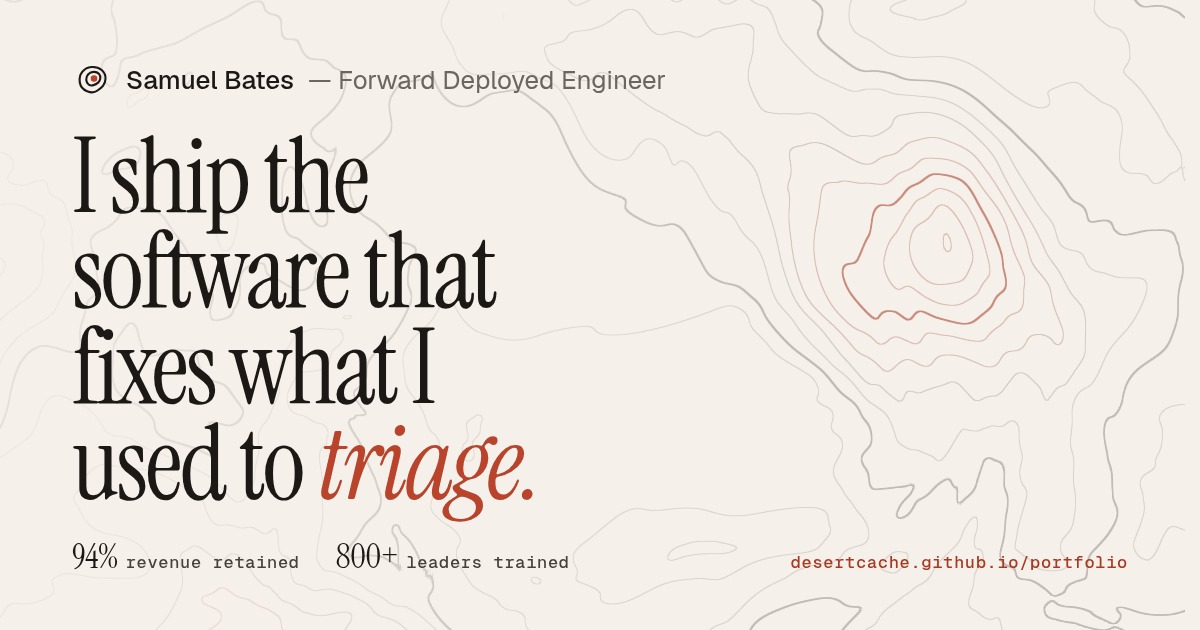
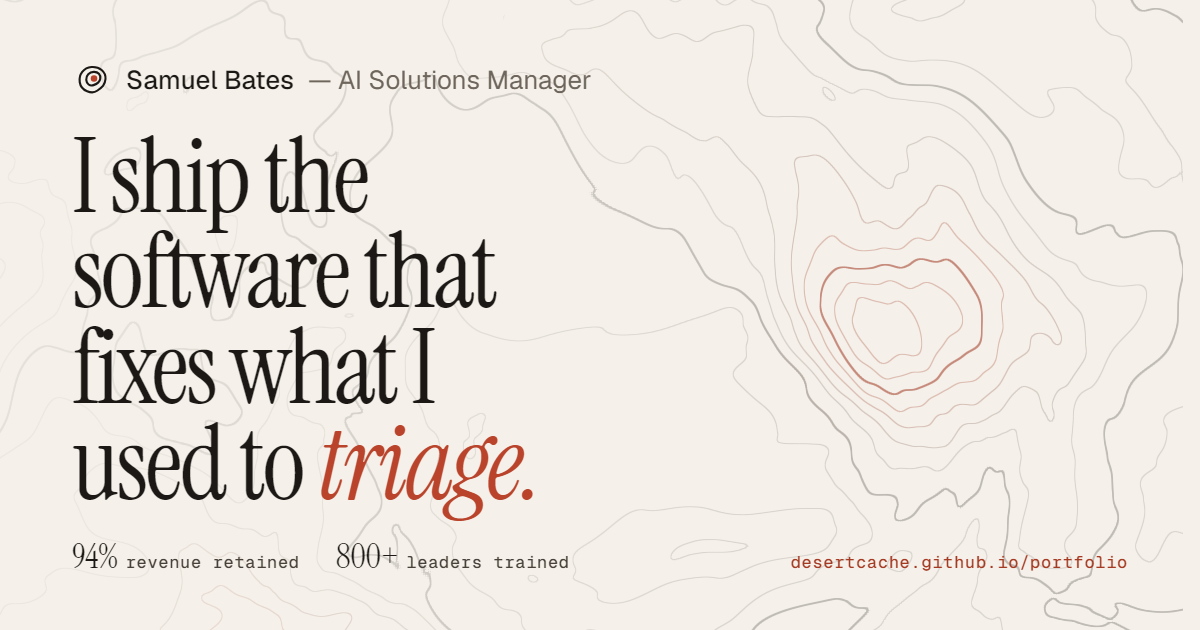
Site: AI Solutions Manager, drop public status pill, work samples (unlisted)
Title/meta/JSON-LD/hero/OG card now read AI Solutions Manager; the public
'Open to... SF Bay' pill and contact line are gone; two noindex work-sample
pages under work/ for hiring-manager emails. Local commit; not pushed.

Claude-Session: https://claude.ai/code/session_01AFSrcGpFRML4Q3CkMTJMqm

diff --git a/work/ai-copilot-rollout.html b/work/ai-copilot-rollout.html
@@ -1,0 +1,123 @@
+<!doctype html>
+<html lang="en">
+<head>
+  <meta charset="utf-8">
+  <meta name="viewport" content="width=device-width, initial-scale=1, viewport-fit=cover">
+  <title>Putting an AI copilot into a live support operation · Samuel Bates</title>
+  <meta name="description" content="How I took an AI support workspace from prototype to a multi-agent platform that an outsourced support team now works live cases in: architecture, measurement, rollout, and what I would tell the next team.">
+  <meta name="robots" content="noindex">
+  <link rel="canonical" href="https://desertcache.github.io/portfolio/work/ai-copilot-rollout.html">
+  <meta name="theme-color" content="#f5f1ea">
+
+  <script>
+    // Same as every page: pick the theme before first paint and flag that JS is on.
+    (function () {
+      var root = document.documentElement;
+      root.classList.add('js');
+      setTimeout(function () { if (!root.classList.contains('js-ready')) root.classList.remove('js'); }, 4000);
+      try {
+        var t = localStorage.getItem('sb-theme');
+        if (t !== 'dark' && t !== 'light') {
+          t = window.matchMedia('(prefers-color-scheme: dark)').matches ? 'dark' : 'light';
+        }
+        root.setAttribute('data-theme', t);
+        document.querySelector('meta[name="theme-color"]').setAttribute('content', t === 'dark' ? '#12100e' : '#f5f1ea');
+      } catch (e) { /* storage blocked: CSS falls back to the system theme */ }
+    })();
+  </script>
+
+  <link rel="preconnect" href="https://fonts.googleapis.com">
+  <link rel="preconnect" href="https://fonts.gstatic.com" crossorigin>
+  <link rel="stylesheet" href="https://fonts.googleapis.com/css2?family=Geist:wght@300..700&family=Geist+Mono:wght@400;500&family=Instrument+Serif:ital@0;1&display=swap">
+
+  <link rel="icon" type="image/svg+xml" href="../favicon.svg">
+  <link rel="apple-touch-icon" href="../assets/apple-touch-icon.png">
+  <link rel="stylesheet" href="../css/site.css">
+  <link rel="stylesheet" href="../blog/blog.css?v=2026-09-23">
+  <script type="module" src="../js/blog.js"></script>
+</head>
+<body>
+  <a class="skip" href="#main">Skip to content</a>
+
+  <header class="nav" id="nav">
+    <div class="nav-inner">
+      <a class="brand" href="../index.html" aria-label="Samuel Bates, home">
+        <svg class="brand-mark" viewBox="0 0 32 32" aria-hidden="true" focusable="false">
+          <path d="M6.2 17.8C5.2 11.6 9.4 6.1 15.6 5.6 21.9 5.1 27.2 9.2 26.8 15.2 26.4 20.4 23.6 22.1 20.1 24.6 16.2 27.4 7.3 25.1 6.2 17.8Z" fill="none" stroke="currentColor" stroke-width="1.7" stroke-linejoin="round"/>
+          <path d="M11.4 15.9C11.1 12.2 13.9 9.6 17.4 9.5 21 9.4 23.1 11.9 22.6 15 22.1 18.2 19.8 19.2 17.2 20.1 14.2 21.1 11.7 19.2 11.4 15.9Z" fill="none" stroke="currentColor" stroke-width="1.7" stroke-linejoin="round"/>
+          <circle cx="17.6" cy="14.7" r="2.6" class="brand-dot"/>
+        </svg>
+        <span class="brand-name">Samuel Bates</span>
+      </a>
+      <nav class="nav-links" aria-label="Sections">
+        <a href="../index.html#work" aria-current="true">Work</a>
+        <a href="../index.html#lab">Lab</a>
+        <a href="../index.html#about">About</a>
+        <a href="../index.html#contact">Contact</a>
+      </nav>
+      <div class="nav-actions">
+        <button class="theme-toggle" id="theme-toggle" type="button" aria-label="Switch to dark theme">
+          <svg class="icon-sun" viewBox="0 0 24 24" aria-hidden="true" focusable="false"><circle cx="12" cy="12" r="4.2"/><path d="M12 2.5v2.2M12 19.3v2.2M4.6 4.6l1.6 1.6M17.8 17.8l1.6 1.6M2.5 12h2.2M19.3 12h2.2M4.6 19.4l1.6-1.6M17.8 6.2l1.6-1.6"/></svg>
+          <svg class="icon-moon" viewBox="0 0 24 24" aria-hidden="true" focusable="false"><path d="M20.2 14.6A8.3 8.3 0 0 1 9.4 3.8a8.3 8.3 0 1 0 10.8 10.8Z"/></svg>
+        </button>
+        <a class="btn btn-ghost btn-sm nav-cv" href="../Samuel_Bates_CV.pdf" target="_blank" rel="noopener">Résumé</a>
+        <a class="btn btn-solid btn-sm" href="mailto:batessambates@gmail.com">Get in touch</a>
+      </div>
+    </div>
+    <div class="nav-progress" aria-hidden="true"></div>
+  </header>
+
+  <main id="main">
+    <article class="post research">
+      <header class="post-head">
+        <a class="eyebrow post-back" href="../index.html#work"><span class="eyebrow-num">Work sample</span>Production AI</a>
+        <h1 class="post-title">Putting an AI copilot into a live support operation</h1>
+        <p class="post-lede">I took an AI support workspace from a prototype to a multi-agent platform that an outsourced support team now works live cases in. This is how it is built, how I measured it, how it rolled out, and what I would tell the next team.</p>
+        <p class="post-meta"><time datetime="2026-09-26">September 2026</time><span>Samuel Bates, AI Solutions Manager</span><span id="read-time" hidden></span></p>
+      </header>
+
+      <div class="post-body">
+        <h2>The problem</h2>
+        <p>Support agents who handle point-of-sale integration cases diagnose problems across half a dozen internal systems: store status, menu sync jobs, integration health, account history and past cases. The knowledge of what to do next lived in a long troubleshooting playbook, and agents are audited against that playbook. The goal was one workspace that gathers the context for a case and a copilot that answers from the same playbook the agent is graded on.</p>
+
+        <h2>How it is built</h2>
+        <ul>
+          <li><strong>A browser app and a backend-for-frontend.</strong> The workspace is a React and TypeScript app. A small Node service sits between it and everything else: the company's AI gateway, the internal data services, and the playbook.</li>
+          <li><strong>Retrieval lives on the server.</strong> App bundles are served from a public CDN, so the playbook corpus cannot ship in the browser. It sits behind a retrieval endpoint in the backend, which returns the matching sections with their provenance.</li>
+          <li><strong>Provenance comes from retrieval, not from the model.</strong> Every grounded answer links to the exact section of the playbook it used, and the link is generated from what retrieval returned. The model never gets to invent a citation.</li>
+          <li><strong>The model runs through the company gateway.</strong> One place for keys, logging and model changes. Before switching models I prove the route with a few matched requests through the real gateway: a control, the new setting, and one that should fail.</li>
+          <li><strong>Other teams' agents plug in as panels.</strong> The workspace became the place agents already are, so other teams embed their own AI agents in it behind the same access model instead of shipping another tab.</li>
+        </ul>
+
+        <h2>How I measured it</h2>
+        <ul>
+          <li><strong>Measure retrieval on the real corpus, never a fixture.</strong> Running it against the actual playbook surfaced four defects a test fixture had hidden, including a rare-term scoring rule that is backwards for a support corpus (the valuable terms are frequent precisely because they matter) and a size cutoff tuned for a large document that pruned everything in a small one.</li>
+          <li><strong>Displacement as the regression metric.</strong> A retrieval change only ships if it rescues questions that used to return nothing without pushing the right answer down for the questions that already worked.</li>
+          <li><strong>Usage, compared with the pre-pilot baseline.</strong> Activity per active day rose 5.8x and the number of people with access grew nearly 3x.</li>
+        </ul>
+
+        <h2>Rolling it out to an outsourced team</h2>
+        <p>The first outsourced support team to work inside the tool could not get in, and every failure looked like the same generic error. I proved access one layer at a time: identity, device and network trust, application permissions, and finally an internal call that was blocked and rendered as a network error. Each layer got its own check so the next cohort would not repeat the hunt.</p>
+        <p>Training came from one content module that generates the slide deck, the guides and the reference docs, plus a verifier that checks every generated copy. One rule came out of it: a fix is done only when every copy has been fetched back from where people actually read it and checked. Now I coach the team's live cases against one success metric: the share of cases resolved in under 30 minutes.</p>
+
+        <h2>What I would tell the next team</h2>
+        <ul>
+          <li><strong>"The mutation exists" is not "the agent can do it."</strong> Before promising what a copilot can resolve, list the writes it can actually reach from the UI.</li>
+          <li><strong>Two agreeing documents are one source.</strong> When the runbook and the official guide agree, load the live page before trusting either.</li>
+          <li><strong>Put the corpus where you can measure it.</strong> Server-side retrieval is what made honest measurement and honest citations possible.</li>
+        </ul>
+      </div>
+
+      <nav class="cs-nav edition-nav" aria-label="More work">
+        <a href="../index.html#work"><span class="cs-nav-k">Work</span><span class="cs-nav-t">All selected work</span></a>
+      </nav>
+    </article>
+  </main>
+
+  <footer class="footer">
+    <div class="wrap footer-inner">
+      <p class="footer-copy">© 2026 Samuel Bates. Hand-built with HTML, CSS, and a little JavaScript. No framework.</p>
+    </div>
+  </footer>
+</body>
+</html>

diff --git a/work/ai-adoption-program.html b/work/ai-adoption-program.html
@@ -1,0 +1,119 @@
+<!doctype html>
+<html lang="en">
+<head>
+  <meta charset="utf-8">
+  <meta name="viewport" content="width=device-width, initial-scale=1, viewport-fit=cover">
+  <title>Running an AI adoption program people actually use · Samuel Bates</title>
+  <meta name="description" content="How I run AI enablement as a product: a framework leaders reuse, a series that ends each session with something people keep using, a redesign around the real blocker, and counting adoption instead of attendance.">
+  <meta name="robots" content="noindex">
+  <link rel="canonical" href="https://desertcache.github.io/portfolio/work/ai-adoption-program.html">
+  <meta name="theme-color" content="#f5f1ea">
+
+  <script>
+    // Same as every page: pick the theme before first paint and flag that JS is on.
+    (function () {
+      var root = document.documentElement;
+      root.classList.add('js');
+      setTimeout(function () { if (!root.classList.contains('js-ready')) root.classList.remove('js'); }, 4000);
+      try {
+        var t = localStorage.getItem('sb-theme');
+        if (t !== 'dark' && t !== 'light') {
+          t = window.matchMedia('(prefers-color-scheme: dark)').matches ? 'dark' : 'light';
+        }
+        root.setAttribute('data-theme', t);
+        document.querySelector('meta[name="theme-color"]').setAttribute('content', t === 'dark' ? '#12100e' : '#f5f1ea');
+      } catch (e) { /* storage blocked: CSS falls back to the system theme */ }
+    })();
+  </script>
+
+  <link rel="preconnect" href="https://fonts.googleapis.com">
+  <link rel="preconnect" href="https://fonts.gstatic.com" crossorigin>
+  <link rel="stylesheet" href="https://fonts.googleapis.com/css2?family=Geist:wght@300..700&family=Geist+Mono:wght@400;500&family=Instrument+Serif:ital@0;1&display=swap">
+
+  <link rel="icon" type="image/svg+xml" href="../favicon.svg">
+  <link rel="apple-touch-icon" href="../assets/apple-touch-icon.png">
+  <link rel="stylesheet" href="../css/site.css">
+  <link rel="stylesheet" href="../blog/blog.css?v=2026-09-23">
+  <script type="module" src="../js/blog.js"></script>
+</head>
+<body>
+  <a class="skip" href="#main">Skip to content</a>
+
+  <header class="nav" id="nav">
+    <div class="nav-inner">
+      <a class="brand" href="../index.html" aria-label="Samuel Bates, home">
+        <svg class="brand-mark" viewBox="0 0 32 32" aria-hidden="true" focusable="false">
+          <path d="M6.2 17.8C5.2 11.6 9.4 6.1 15.6 5.6 21.9 5.1 27.2 9.2 26.8 15.2 26.4 20.4 23.6 22.1 20.1 24.6 16.2 27.4 7.3 25.1 6.2 17.8Z" fill="none" stroke="currentColor" stroke-width="1.7" stroke-linejoin="round"/>
+          <path d="M11.4 15.9C11.1 12.2 13.9 9.6 17.4 9.5 21 9.4 23.1 11.9 22.6 15 22.1 18.2 19.8 19.2 17.2 20.1 14.2 21.1 11.7 19.2 11.4 15.9Z" fill="none" stroke="currentColor" stroke-width="1.7" stroke-linejoin="round"/>
+          <circle cx="17.6" cy="14.7" r="2.6" class="brand-dot"/>
+        </svg>
+        <span class="brand-name">Samuel Bates</span>
+      </a>
+      <nav class="nav-links" aria-label="Sections">
+        <a href="../index.html#work" aria-current="true">Work</a>
+        <a href="../index.html#lab">Lab</a>
+        <a href="../index.html#about">About</a>
+        <a href="../index.html#contact">Contact</a>
+      </nav>
+      <div class="nav-actions">
+        <button class="theme-toggle" id="theme-toggle" type="button" aria-label="Switch to dark theme">
+          <svg class="icon-sun" viewBox="0 0 24 24" aria-hidden="true" focusable="false"><circle cx="12" cy="12" r="4.2"/><path d="M12 2.5v2.2M12 19.3v2.2M4.6 4.6l1.6 1.6M17.8 17.8l1.6 1.6M2.5 12h2.2M19.3 12h2.2M4.6 19.4l1.6-1.6M17.8 6.2l1.6-1.6"/></svg>
+          <svg class="icon-moon" viewBox="0 0 24 24" aria-hidden="true" focusable="false"><path d="M20.2 14.6A8.3 8.3 0 0 1 9.4 3.8a8.3 8.3 0 1 0 10.8 10.8Z"/></svg>
+        </button>
+        <a class="btn btn-ghost btn-sm nav-cv" href="../Samuel_Bates_CV.pdf" target="_blank" rel="noopener">Résumé</a>
+        <a class="btn btn-solid btn-sm" href="mailto:batessambates@gmail.com">Get in touch</a>
+      </div>
+    </div>
+    <div class="nav-progress" aria-hidden="true"></div>
+  </header>
+
+  <main id="main">
+    <article class="post research">
+      <header class="post-head">
+        <a class="eyebrow post-back" href="../index.html#work"><span class="eyebrow-num">Work sample</span>AI enablement</a>
+        <h1 class="post-title">Running an AI adoption program people actually use</h1>
+        <p class="post-lede">Most AI training produces a good afternoon and no change in how work gets done. I run enablement like a product instead: a framework leaders reuse, sessions that end with something people keep using, a redesign when the real blocker shows up, and adoption counted instead of attendance.</p>
+        <p class="post-meta"><time datetime="2026-09-26">September 2026</time><span>Samuel Bates, AI Solutions Manager</span><span id="read-time" hidden></span></p>
+      </header>
+
+      <div class="post-body">
+        <h2>Start with a framework people can reuse</h2>
+        <p>The first workshop was for senior leaders at an internal leadership summit. I built it around a four-step framework, define, organize, apply, refine, so the takeaway was a way of working rather than a list of prompts. It has since reached 800+ leaders across the consumer and merchant organizations, and it generated follow-on AI projects in several of the teams that attended.</p>
+
+        <h2>Every session ends with something people keep using</h2>
+        <p>The org-wide series for an operations organization runs sessions of roughly 70 to 100+ practitioners. Each one ships a reusable artifact, such as a skill, a template or a shared team setup, that people keep using after the call ends. Session four was a builder showcase: people from the business demoed production work they had shipped themselves, and I checked each merge record before describing their work to their executives.</p>
+
+        <h2>Redesign around the real blocker</h2>
+        <p>Midway through, a domain owner who had onboarded 25 non-engineers showed me that access and hands-on work in the same session deliver neither. One planned session became four parts:</p>
+        <ul>
+          <li><strong>Part 1:</strong> get access, and learn five words: repository, branch, commit, pull request, merge.</li>
+          <li><strong>Part 2:</strong> work inside a team repository.</li>
+          <li><strong>Part 3:</strong> read an existing repository.</li>
+          <li><strong>Part 4:</strong> contribute code, opt-in and with a sponsor.</li>
+        </ul>
+        <p>The line that unlocks a non-technical room turned out to be reversibility, not sophistication: everything here can be undone, and you are not an admin.</p>
+
+        <h2>Recover in front of the room</h2>
+        <p>Minutes after Part 1, the first attendee hit a wall in the access flow. I had tested it as a member with elevated access, which hid a step every newcomer needs. By that afternoon the path was corrected to seven steps with screenshots, and the recap led with the correction and asked everyone to reply with the step they reached. Every access request that day was granted by the next morning.</p>
+
+        <h2>Count adoption, not attendance</h2>
+        <ul>
+          <li><strong>A binary conversion artifact per part:</strong> reached the last access step, opened a first pull request, merged a change.</li>
+          <li><strong>A survey the leaders run themselves,</strong> so the program is steered by the people who own the outcome.</li>
+          <li><strong>A builder showcase,</strong> because the strongest adoption signal is someone outside engineering shipping work to production.</li>
+        </ul>
+      </div>
+
+      <nav class="cs-nav edition-nav" aria-label="More work">
+        <a href="../index.html#work"><span class="cs-nav-k">Work</span><span class="cs-nav-t">All selected work</span></a>
+      </nav>
+    </article>
+  </main>
+
+  <footer class="footer">
+    <div class="wrap footer-inner">
+      <p class="footer-copy">© 2026 Samuel Bates. Hand-built with HTML, CSS, and a little JavaScript. No framework.</p>
+    </div>
+  </footer>
+</body>
+</html>

diff --git a/index.html b/index.html
@@ -3,21 +3,21 @@
 <head>
   <meta charset="utf-8">
   <meta name="viewport" content="width=device-width, initial-scale=1, viewport-fit=cover">
-  <title>Samuel Bates — Forward Deployed Engineer</title>
-  <meta name="description" content="Samuel Bates, forward deployed engineer at DoorDash. Ex-EMT and ops lead who now ships React, TypeScript, Snowflake, and production AI agents, and measures the outcome.">
+  <title>Samuel Bates — AI Solutions Manager</title>
+  <meta name="description" content="Samuel Bates, AI Solutions Manager at DoorDash. Ex-EMT and ops lead who builds production AI for support operations, gets it live with the teams who use it, and measures the outcome.">
   <link rel="canonical" href="https://desertcache.github.io/portfolio/">
   <meta name="theme-color" content="#f5f1ea">
 
   <!-- Link previews (LinkedIn, Slack, iMessage). og:image must be an absolute URL. -->
   <meta property="og:type" content="profile">
   <meta property="og:site_name" content="Samuel Bates">
-  <meta property="og:title" content="Samuel Bates — Forward Deployed Engineer">
-  <meta property="og:description" content="I ship the software that fixes what I used to triage. Ex-EMT and ops lead; now React, TypeScript, Snowflake, and production AI agents.">
+  <meta property="og:title" content="Samuel Bates — AI Solutions Manager">
+  <meta property="og:description" content="I build production AI for support operations and teach organizations to use it. Ex-EMT and ops lead.">
   <meta property="og:url" content="https://desertcache.github.io/portfolio/">
   <meta property="og:image" content="https://desertcache.github.io/portfolio/assets/og.png">
   <meta property="og:image:width" content="1200">
   <meta property="og:image:height" content="630">
-  <meta property="og:image:alt" content="Samuel Bates, Forward Deployed Engineer: I ship the software that fixes what I used to triage.">
+  <meta property="og:image:alt" content="Samuel Bates, AI Solutions Manager: I ship the software that fixes what I used to triage.">
   <meta name="twitter:card" content="summary_large_image">
 
   <script>
@@ -55,7 +55,7 @@
     "@context": "https://schema.org",
     "@type": "Person",
     "name": "Samuel Bates",
-    "jobTitle": "Forward Deployed Engineer",
+    "jobTitle": "AI Solutions Manager",
     "worksFor": { "@type": "Organization", "name": "DoorDash" },
     "address": { "@type": "PostalAddress", "addressLocality": "Phoenix", "addressRegion": "AZ", "addressCountry": "US" },
     "url": "https://desertcache.github.io/portfolio/",
@@ -103,20 +103,18 @@
       <div class="hero-fade" aria-hidden="true"></div>
       <div class="wrap hero-inner">
         <div class="hero-main">
-          <p class="status rise"><span class="status-dot" aria-hidden="true"></span>Open to forward deployed &amp; solutions roles · Remote, hybrid, or SF Bay</p>
-
           <h1 class="hero-title rise" id="hero-title" style="--delay: .08s">
             <span class="hero-id">
               <picture>
                 <source srcset="assets/headshot-96.webp" type="image/webp">
                 <img class="avatar" src="assets/headshot-96.jpg" width="48" height="48" alt="">
               </picture>
-              <span>Samuel Bates <span class="hero-role">— Forward Deployed Engineer</span></span>
+              <span>Samuel Bates <span class="hero-role">— AI Solutions Manager</span></span>
             </span>
             <span class="hero-statement">I ship the software that fixes what I used to <em>triage.</em></span>
           </h1>
 
-          <p class="hero-lede rise" style="--delay: .22s">I came up through call centers, EMT crisis response, and executive escalations at DoorDash. Now I build the React, TypeScript, Snowflake, and AI-agent tools that operations teams run on, and I own the outcome end to end: scope it, ship it, measure it.</p>
+          <p class="hero-lede rise" style="--delay: .22s">I came up through call centers, EMT crisis response, and executive escalations at DoorDash. Now I build production AI for support operations, get it live with the teams who use it, and teach organizations to use it well: scope it, ship it, measure it.</p>
 
           <div class="hero-cta rise" style="--delay: .32s">
             <a class="btn btn-solid" href="#work">See the work <span class="btn-arrow" aria-hidden="true">↓</span></a>
@@ -535,8 +533,8 @@
                 <span class="tl-year">2026</span>
                 <div class="tl-body">
                   <span class="tl-phase">Architect</span>
-                  <h3 class="tl-role">Technical Integrations Associate, Engineering &amp; AI <span class="tl-org">DoorDash · Merchant Ops</span></h3>
-                  <p>Deeper into AI: a six-agent local dev fleet, an internal AI builder playbook, and tech lead on the flagship internal support chatbot.</p>
+                  <h3 class="tl-role">AI Solutions Manager <span class="tl-org">DoorDash · Merchant Ops</span></h3>
+                  <p>Promoted in September; manage 2. Grew an AI support workspace into a multi-agent platform, took an outsourced support team live inside it, and wrote the Go backend for a realtime metrics endpoint.</p>
                 </div>
               </li>
             </ol>
@@ -576,7 +574,7 @@
       <div class="wrap">
         <h2 class="contact-title reveal" id="contact-title">Let's build the system that fixes <em>the bottleneck.</em></h2>
         <div class="contact-grid reveal">
-          <p class="contact-lede">Open to forward deployed, solutions, and applied-AI roles: remote, hybrid, or SF Bay. Email is the fastest way to reach me.</p>
+          <p class="contact-lede">Email is the fastest way to reach me.</p>
           <div class="contact-actions">
             <a class="btn btn-solid btn-lg" href="mailto:batessambates@gmail.com">Email me <span class="btn-arrow" aria-hidden="true">↗</span></a>
             <button class="btn btn-ghost btn-lg copy-email" type="button" data-email="batessambates@gmail.com"><span class="copy-label">Copy address</span></button>

diff --git a/scripts/og-card.html b/scripts/og-card.html
@@ -62,7 +62,7 @@
         <path d="M11.4 15.9C11.1 12.2 13.9 9.6 17.4 9.5 21 9.4 23.1 11.9 22.6 15 22.1 18.2 19.8 19.2 17.2 20.1 14.2 21.1 11.7 19.2 11.4 15.9Z" fill="none" stroke="currentColor" stroke-width="1.7" stroke-linejoin="round"/>
         <circle cx="17.6" cy="14.7" r="2.6" class="brand-dot"/>
       </svg>
-      Samuel Bates <span>— Forward Deployed Engineer</span>
+      Samuel Bates <span>— AI Solutions Manager</span>
     </p>
     <p class="og-statement">I ship the software that fixes what I used to <em>triage.</em></p>
     <p class="og-foot">
